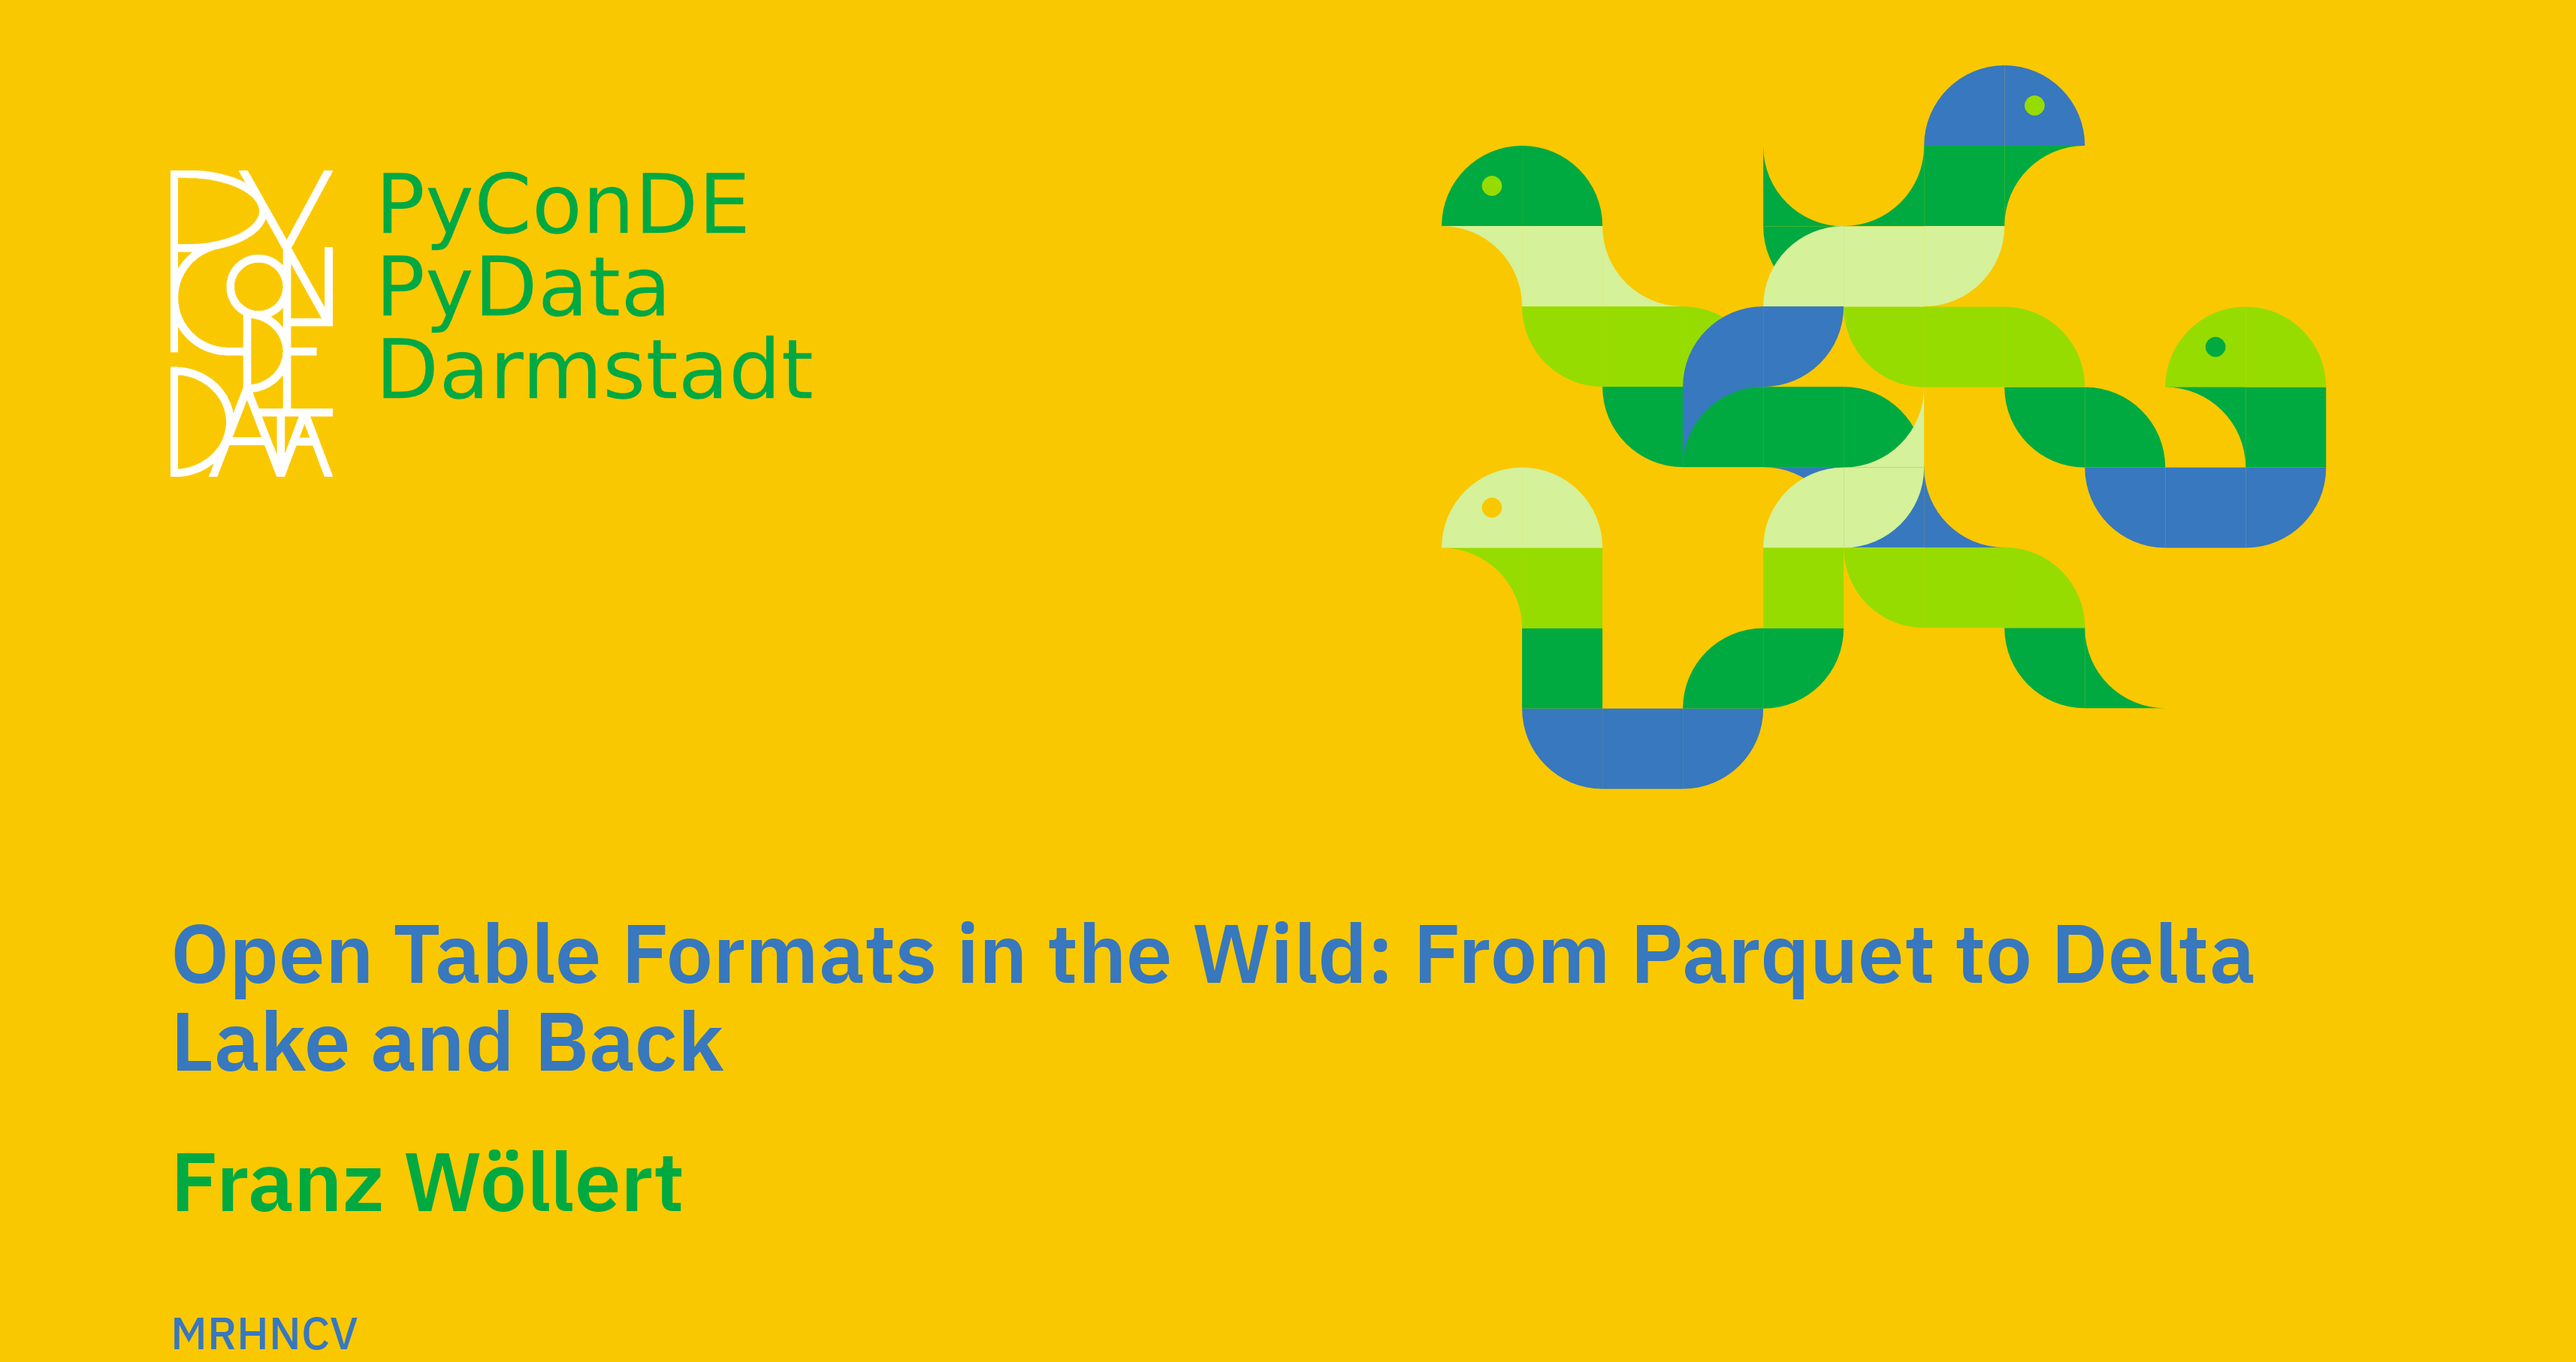
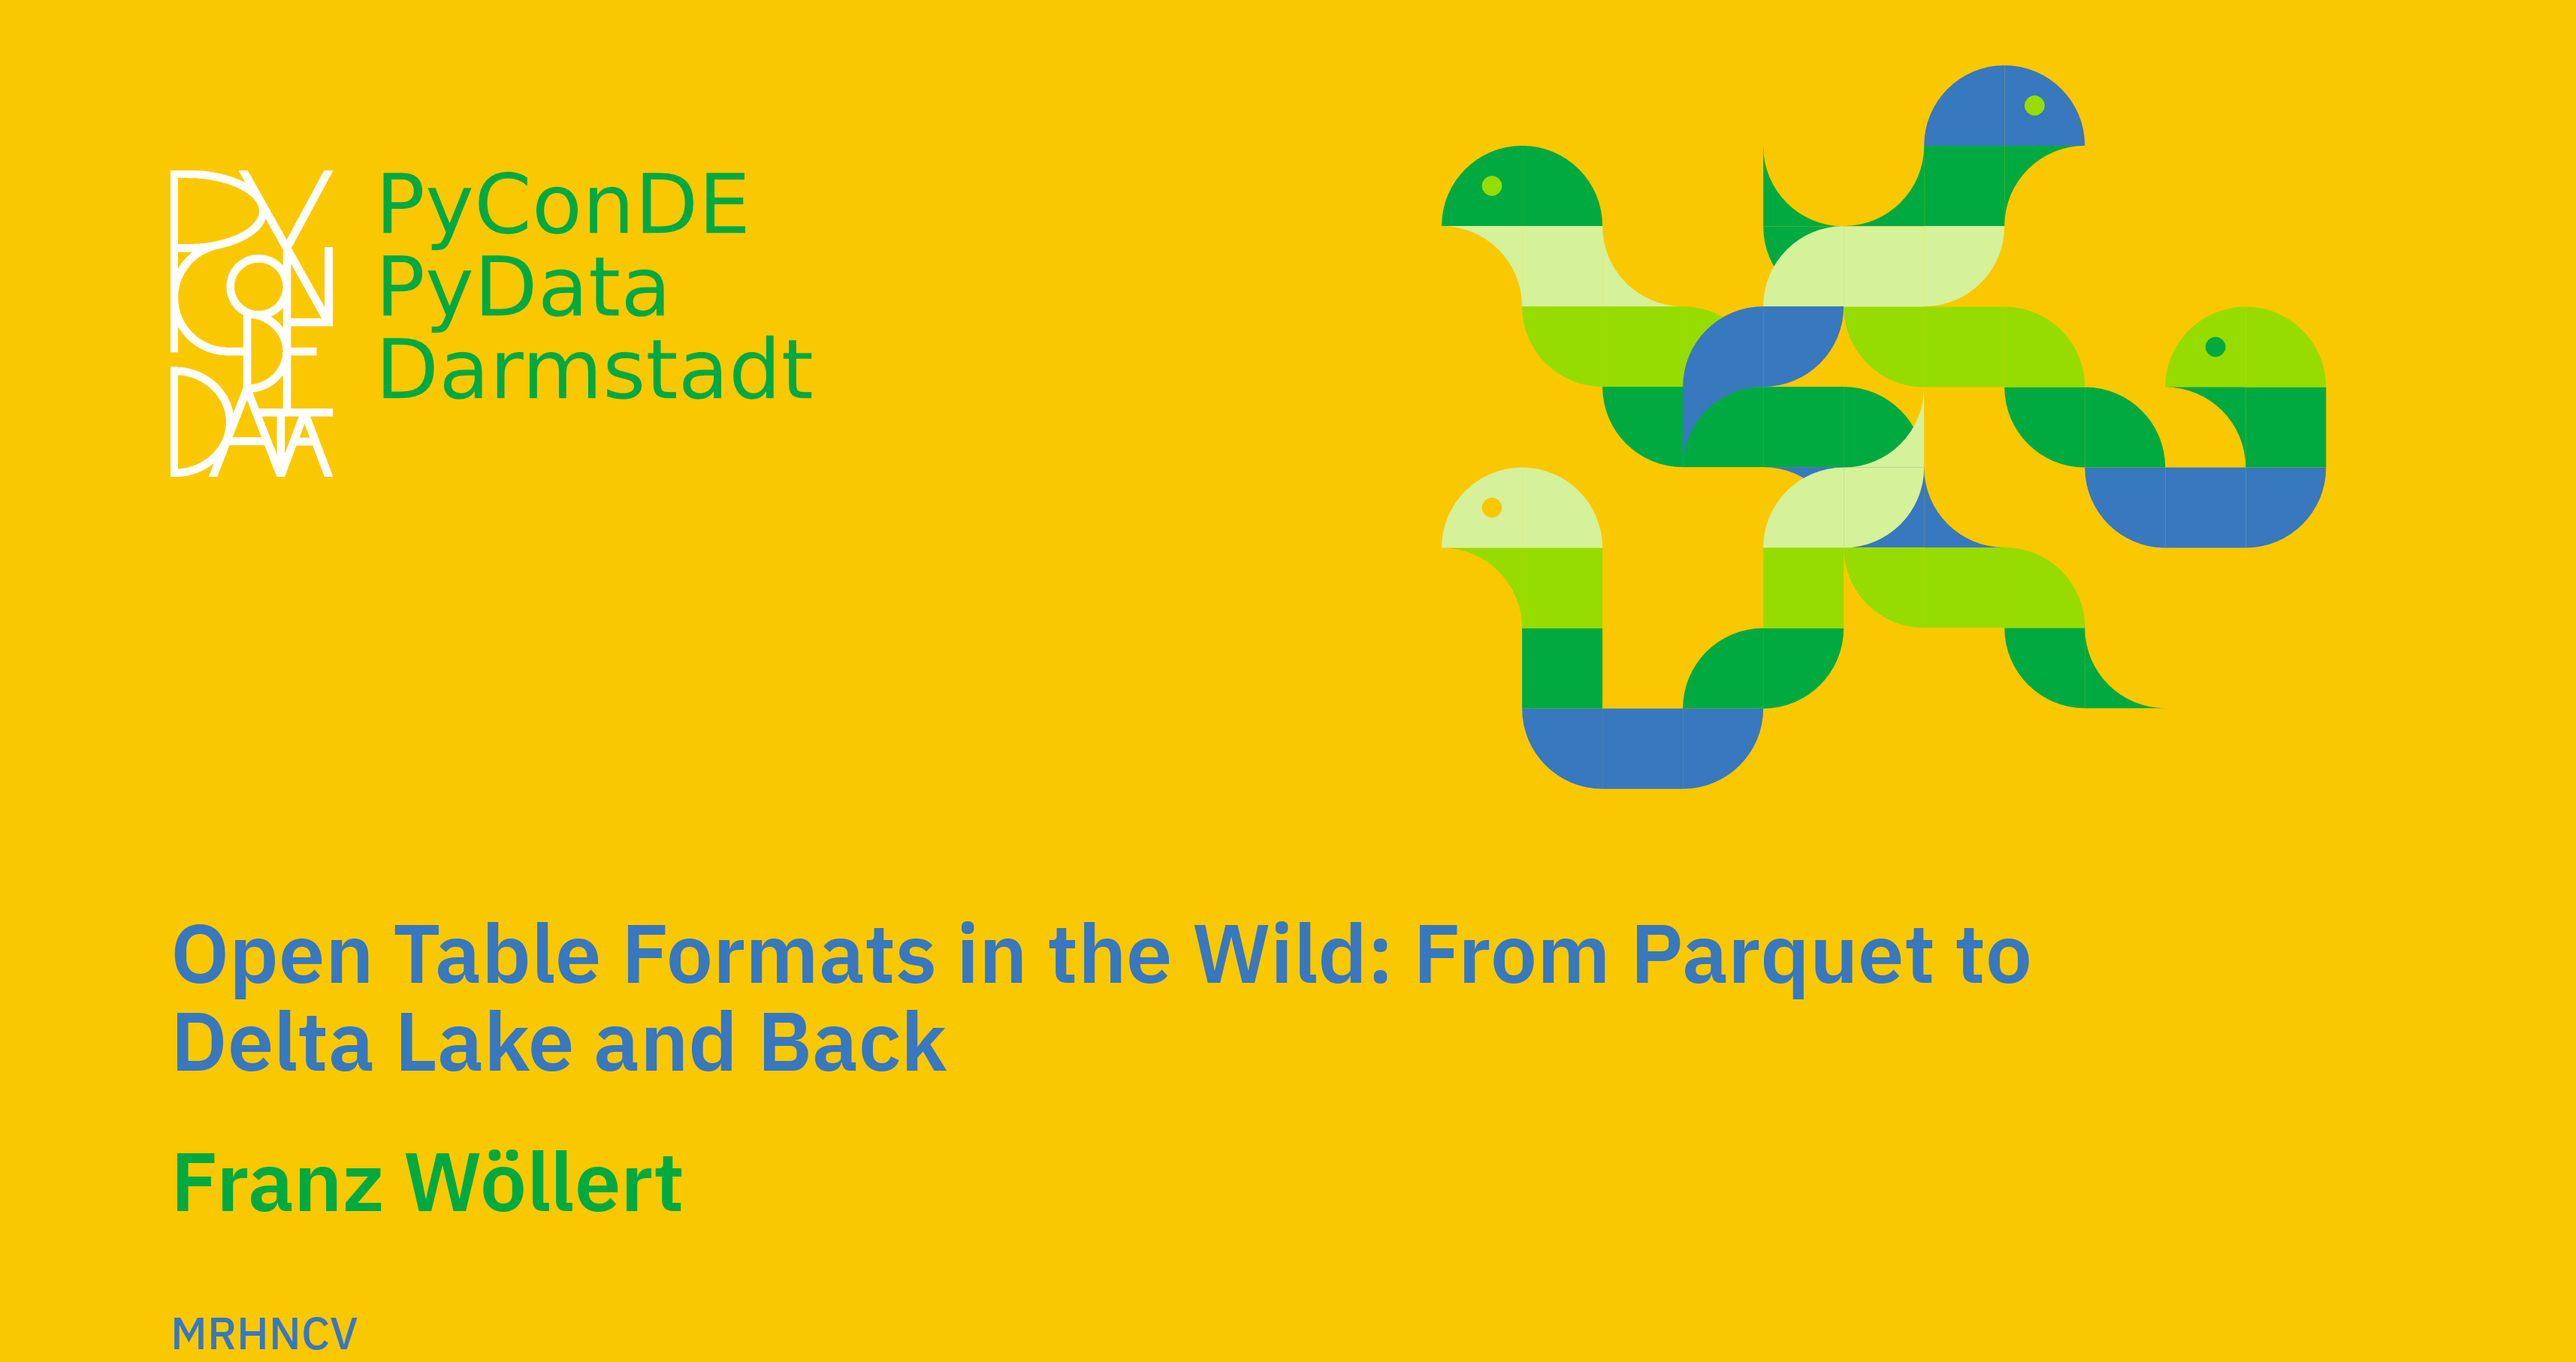
adjusts social cards a wee bit

Changed region(s): [[0.0624, 0.7409, 0.3745, 0.8026], [0.7801, 0.6792, 0.8737, 0.7409]]

diff --git a/utils/social_card_img_gen.py b/utils/social_card_img_gen.py
@@ -23,7 +23,7 @@ def main():
     for talk in talks:
         img = Image.open("assets/static/media/social/talks/social-card.png")
         d = ImageDraw.Draw(img)
-        headlines = "\n".join(textwrap.wrap(talk["title"], 55))
+        headlines = "\n".join(textwrap.wrap(talk["title"], 52))
         d.multiline_text((227, 1196), headlines,
                          fill=(55, 120, 190), font=font)
         d.text((227, 1500), talk["speaker_names"],
